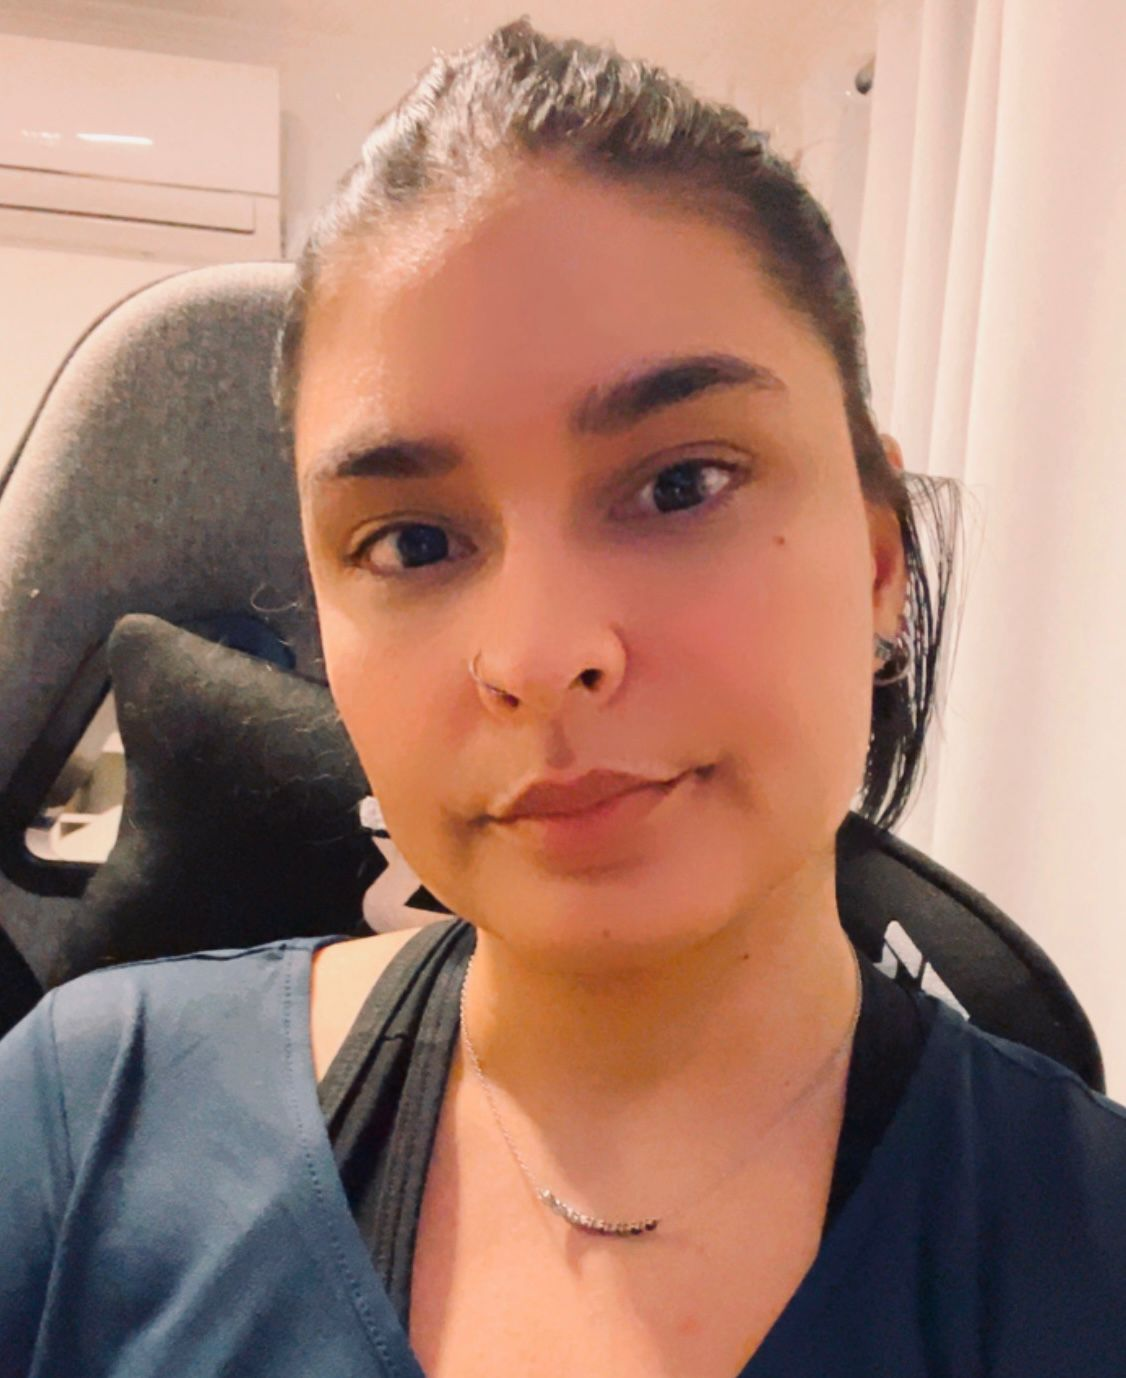
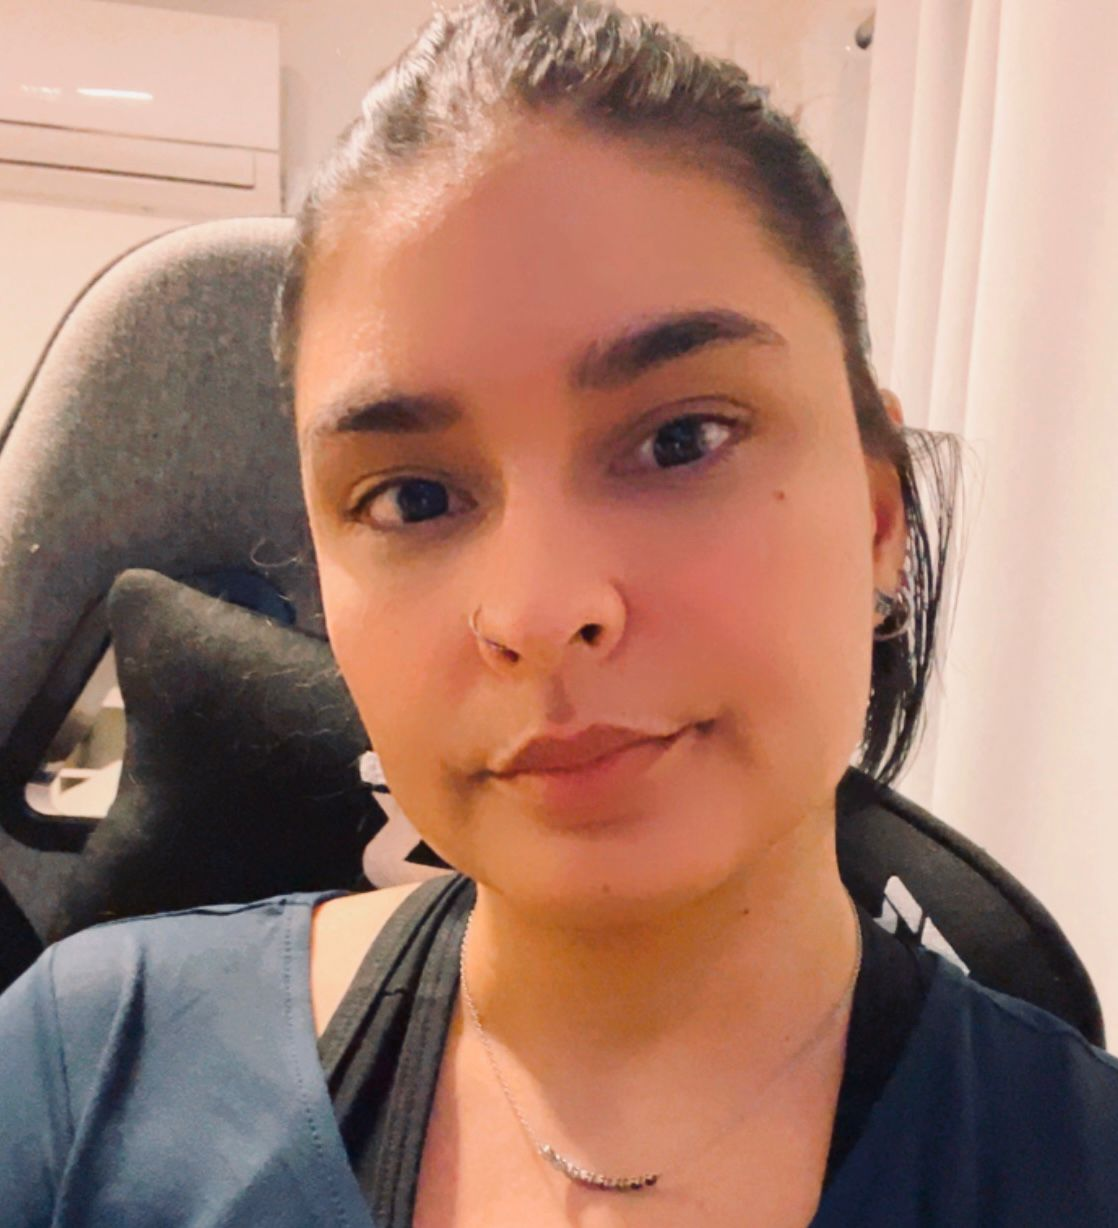
Edit about page

diff --git a/about.html b/about.html
@@ -84,7 +84,7 @@
             <img src="assets/img/profile-img.jpg" class="img-fluid" alt="profile image">
           </div>
           <div class="col-lg-8 content">
-            <h2>UI/UX Designer &amp; Web Developer.</h2>
+            <h2>Fullstack Web Developer.</h2>
             <p class="fst-italic py-3">
               Lorem ipsum dolor sit amet, consectetur adipiscing elit, sed do eiusmod tempor incididunt ut labore et dolore
               magna aliqua.
@@ -92,17 +92,16 @@
             <div class="row">
               <div class="col-lg-6">
                 <ul>
-                  <li><i class="bi bi-chevron-right"></i> <strong>Birthday:</strong> <span>1 May 1995</span></li>
-                  <li><i class="bi bi-chevron-right"></i> <strong>Website:</strong> <span>www.example.com</span></li>
-                  <li><i class="bi bi-chevron-right"></i> <strong>Phone:</strong> <span>+123 456 7890</span></li>
-                  <li><i class="bi bi-chevron-right"></i> <strong>City:</strong> <span>New York, USA</span></li>
+                  <li><i class="bi bi-chevron-right"></i> <strong>Birthday:</strong> <span>23 April 1992</span></li>
+                  <li><i class="bi bi-chevron-right"></i> <strong>Phone:</strong> <span>+55 11 99103-6787</span></li>
+                  <li><i class="bi bi-chevron-right"></i> <strong>City:</strong> <span>São Paulo, BR</span></li>
                 </ul>
               </div>
               <div class="col-lg-6">
                 <ul>
-                  <li><i class="bi bi-chevron-right"></i> <strong>Age:</strong> <span>30</span></li>
-                  <li><i class="bi bi-chevron-right"></i> <strong>Degree:</strong> <span>Master</span></li>
-                  <li><i class="bi bi-chevron-right"></i> <strong>Email:</strong> <span>email@example.com</span></li>
+                  <li><i class="bi bi-chevron-right"></i> <strong>Age:</strong> <span>32</span></li>
+                  <li><i class="bi bi-chevron-right"></i> <strong>Degree:</strong> <span>Undergraduate</span></li>
+                  <li><i class="bi bi-chevron-right"></i> <strong>Email:</strong> <span>grance.aline@gmail.com</span></li>
                   <li><i class="bi bi-chevron-right"></i> <strong>Freelance:</strong> <span>Available</span></li>
                 </ul>
               </div>
@@ -141,16 +140,16 @@
             </div><!-- End Skills Item -->
 
             <div class="progress">
-              <span class="skill"><span>CSS</span> <i class="val">90%</i></span>
+              <span class="skill"><span>CSS</span> <i class="val">100%</i></span>
               <div class="progress-bar-wrap">
-                <div class="progress-bar" role="progressbar" aria-valuenow="90" aria-valuemin="0" aria-valuemax="100"></div>
+                <div class="progress-bar" role="progressbar" aria-valuenow="100" aria-valuemin="0" aria-valuemax="100"></div>
               </div>
             </div><!-- End Skills Item -->
 
             <div class="progress">
-              <span class="skill"><span>JavaScript</span> <i class="val">75%</i></span>
+              <span class="skill"><span>JavaScript</span> <i class="val">100%</i></span>
               <div class="progress-bar-wrap">
-                <div class="progress-bar" role="progressbar" aria-valuenow="75" aria-valuemin="0" aria-valuemax="100"></div>
+                <div class="progress-bar" role="progressbar" aria-valuenow="100" aria-valuemin="0" aria-valuemax="100"></div>
               </div>
             </div><!-- End Skills Item -->
 
@@ -159,23 +158,23 @@
           <div class="col-lg-6">
 
             <div class="progress">
-              <span class="skill"><span>PHP</span> <i class="val">80%</i></span>
-              <div class="progress-bar-wrap">
-                <div class="progress-bar" role="progressbar" aria-valuenow="80" aria-valuemin="0" aria-valuemax="100"></div>
-              </div>
-            </div><!-- End Skills Item -->
-
-            <div class="progress">
-              <span class="skill"><span>WordPress/CMS</span> <i class="val">90%</i></span>
+              <span class="skill"><span>React.js</span> <i class="val">90%</i></span>
               <div class="progress-bar-wrap">
                 <div class="progress-bar" role="progressbar" aria-valuenow="90" aria-valuemin="0" aria-valuemax="100"></div>
               </div>
             </div><!-- End Skills Item -->
 
             <div class="progress">
-              <span class="skill"><span>Photoshop</span> <i class="val">55%</i></span>
+              <span class="skill"><span>Node.js</span> <i class="val">90%</i></span>
               <div class="progress-bar-wrap">
-                <div class="progress-bar" role="progressbar" aria-valuenow="55" aria-valuemin="0" aria-valuemax="100"></div>
+                <div class="progress-bar" role="progressbar" aria-valuenow="90" aria-valuemin="0" aria-valuemax="100"></div>
+              </div>
+            </div><!-- End Skills Item -->
+
+            <div class="progress">
+              <span class="skill"><span>MySQL</span> <i class="val">75%</i></span>
+              <div class="progress-bar-wrap">
+                <div class="progress-bar" role="progressbar" aria-valuenow="75" aria-valuemin="0" aria-valuemax="100"></div>
               </div>
             </div><!-- End Skills Item -->
 
@@ -186,170 +185,6 @@
       </div>
 
     </section><!-- /Skills Section -->
-
-    <!-- Stats Section -->
-    <section id="stats" class="stats section">
-
-      <!-- Section Title -->
-      <div class="container section-title" data-aos="fade-up">
-        <h2>Facts</h2>
-        <p>Necessitatibus eius consequatur ex aliquid fuga eum quidem sint consectetur velit</p>
-      </div><!-- End Section Title -->
-
-      <div class="container" data-aos="fade-up" data-aos-delay="100">
-
-        <div class="row gy-4">
-
-          <div class="col-lg-3 col-md-6">
-            <div class="stats-item text-center w-100 h-100">
-              <span data-purecounter-start="0" data-purecounter-end="232" data-purecounter-duration="1" class="purecounter"></span>
-              <p>Clients</p>
-            </div>
-          </div><!-- End Stats Item -->
-
-          <div class="col-lg-3 col-md-6">
-            <div class="stats-item text-center w-100 h-100">
-              <span data-purecounter-start="0" data-purecounter-end="521" data-purecounter-duration="1" class="purecounter"></span>
-              <p>Projects</p>
-            </div>
-          </div><!-- End Stats Item -->
-
-          <div class="col-lg-3 col-md-6">
-            <div class="stats-item text-center w-100 h-100">
-              <span data-purecounter-start="0" data-purecounter-end="1453" data-purecounter-duration="1" class="purecounter"></span>
-              <p>Hours Of Support</p>
-            </div>
-          </div><!-- End Stats Item -->
-
-          <div class="col-lg-3 col-md-6">
-            <div class="stats-item text-center w-100 h-100">
-              <span data-purecounter-start="0" data-purecounter-end="32" data-purecounter-duration="1" class="purecounter"></span>
-              <p>Workers</p>
-            </div>
-          </div><!-- End Stats Item -->
-
-        </div>
-
-      </div>
-
-    </section><!-- /Stats Section -->
-
-    <!-- Testimonials Section -->
-    <section id="testimonials" class="testimonials section">
-
-      <!-- Section Title -->
-      <div class="container section-title" data-aos="fade-up">
-        <h2>Testimonials</h2>
-        <p>Necessitatibus eius consequatur ex aliquid fuga eum quidem sint consectetur velit</p>
-      </div><!-- End Section Title -->
-
-      <div class="container" data-aos="fade-up" data-aos-delay="100">
-
-        <div class="swiper init-swiper">
-          <script type="application/json" class="swiper-config">
-            {
-              "loop": true,
-              "speed": 600,
-              "autoplay": {
-                "delay": 5000
-              },
-              "slidesPerView": "auto",
-              "pagination": {
-                "el": ".swiper-pagination",
-                "type": "bullets",
-                "clickable": true
-              }
-            }
-          </script>
-          <div class="swiper-wrapper">
-
-            <div class="swiper-slide">
-              <div class="testimonial-item">
-                <img src="assets/img/testimonials/testimonials-1.jpg" class="testimonial-img" alt="">
-                <h3>Saul Goodman</h3>
-                <h4>Ceo &amp; Founder</h4>
-                <div class="stars">
-                  <i class="bi bi-star-fill"></i><i class="bi bi-star-fill"></i><i class="bi bi-star-fill"></i><i class="bi bi-star-fill"></i><i class="bi bi-star-fill"></i>
-                </div>
-                <p>
-                  <i class="bi bi-quote quote-icon-left"></i>
-                  <span>Proin iaculis purus consequat sem cure digni ssim donec porttitora entum suscipit rhoncus. Accusantium quam, ultricies eget id, aliquam eget nibh et. Maecen aliquam, risus at semper.</span>
-                  <i class="bi bi-quote quote-icon-right"></i>
-                </p>
-              </div>
-            </div><!-- End testimonial item -->
-
-            <div class="swiper-slide">
-              <div class="testimonial-item">
-                <img src="assets/img/testimonials/testimonials-2.jpg" class="testimonial-img" alt="">
-                <h3>Sara Wilsson</h3>
-                <h4>Designer</h4>
-                <div class="stars">
-                  <i class="bi bi-star-fill"></i><i class="bi bi-star-fill"></i><i class="bi bi-star-fill"></i><i class="bi bi-star-fill"></i><i class="bi bi-star-fill"></i>
-                </div>
-                <p>
-                  <i class="bi bi-quote quote-icon-left"></i>
-                  <span>Export tempor illum tamen malis malis eram quae irure esse labore quem cillum quid cillum eram malis quorum velit fore eram velit sunt aliqua noster fugiat irure amet legam anim culpa.</span>
-                  <i class="bi bi-quote quote-icon-right"></i>
-                </p>
-              </div>
-            </div><!-- End testimonial item -->
-
-            <div class="swiper-slide">
-              <div class="testimonial-item">
-                <img src="assets/img/testimonials/testimonials-3.jpg" class="testimonial-img" alt="">
-                <h3>Jena Karlis</h3>
-                <h4>Store Owner</h4>
-                <div class="stars">
-                  <i class="bi bi-star-fill"></i><i class="bi bi-star-fill"></i><i class="bi bi-star-fill"></i><i class="bi bi-star-fill"></i><i class="bi bi-star-fill"></i>
-                </div>
-                <p>
-                  <i class="bi bi-quote quote-icon-left"></i>
-                  <span>Enim nisi quem export duis labore cillum quae magna enim sint quorum nulla quem veniam duis minim tempor labore quem eram duis noster aute amet eram fore quis sint minim.</span>
-                  <i class="bi bi-quote quote-icon-right"></i>
-                </p>
-              </div>
-            </div><!-- End testimonial item -->
-
-            <div class="swiper-slide">
-              <div class="testimonial-item">
-                <img src="assets/img/testimonials/testimonials-4.jpg" class="testimonial-img" alt="">
-                <h3>Matt Brandon</h3>
-                <h4>Freelancer</h4>
-                <div class="stars">
-                  <i class="bi bi-star-fill"></i><i class="bi bi-star-fill"></i><i class="bi bi-star-fill"></i><i class="bi bi-star-fill"></i><i class="bi bi-star-fill"></i>
-                </div>
-                <p>
-                  <i class="bi bi-quote quote-icon-left"></i>
-                  <span>Fugiat enim eram quae cillum dolore dolor amet nulla culpa multos export minim fugiat minim velit minim dolor enim duis veniam ipsum anim magna sunt elit fore quem dolore labore illum veniam.</span>
-                  <i class="bi bi-quote quote-icon-right"></i>
-                </p>
-              </div>
-            </div><!-- End testimonial item -->
-
-            <div class="swiper-slide">
-              <div class="testimonial-item">
-                <img src="assets/img/testimonials/testimonials-5.jpg" class="testimonial-img" alt="">
-                <h3>John Larson</h3>
-                <h4>Entrepreneur</h4>
-                <div class="stars">
-                  <i class="bi bi-star-fill"></i><i class="bi bi-star-fill"></i><i class="bi bi-star-fill"></i><i class="bi bi-star-fill"></i><i class="bi bi-star-fill"></i>
-                </div>
-                <p>
-                  <i class="bi bi-quote quote-icon-left"></i>
-                  <span>Quis quorum aliqua sint quem legam fore sunt eram irure aliqua veniam tempor noster veniam enim culpa labore duis sunt culpa nulla illum cillum fugiat legam esse veniam culpa fore nisi cillum quid.</span>
-                  <i class="bi bi-quote quote-icon-right"></i>
-                </p>
-              </div>
-            </div><!-- End testimonial item -->
-
-          </div>
-          <div class="swiper-pagination"></div>
-        </div>
-
-      </div>
-
-    </section><!-- /Testimonials Section -->
 
   </main>
 
